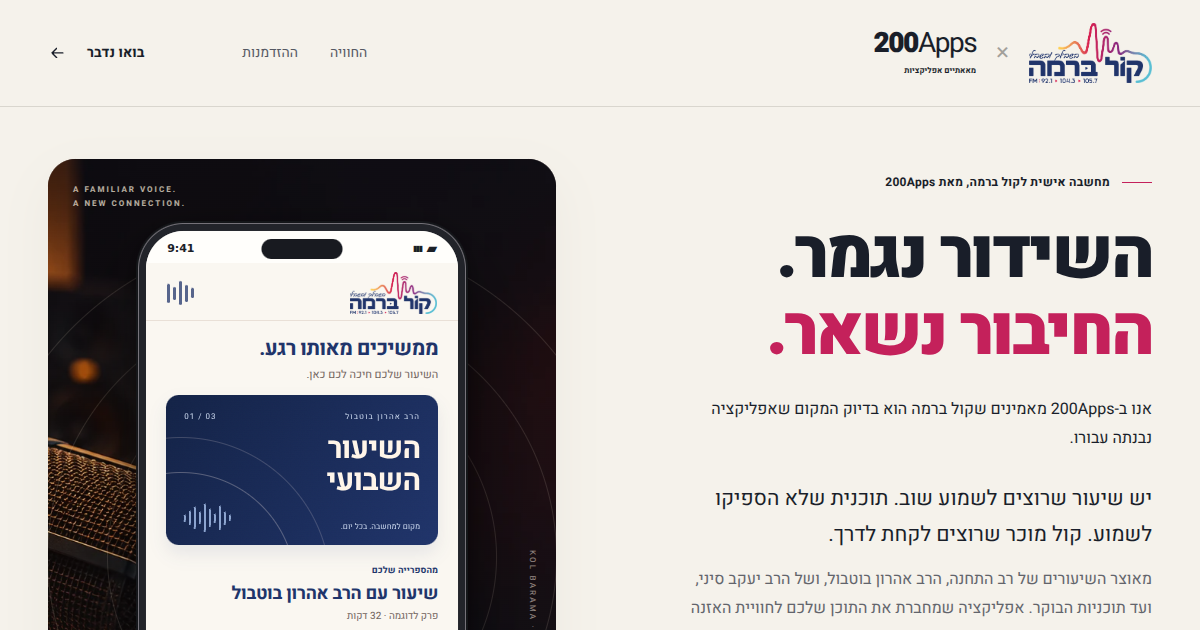
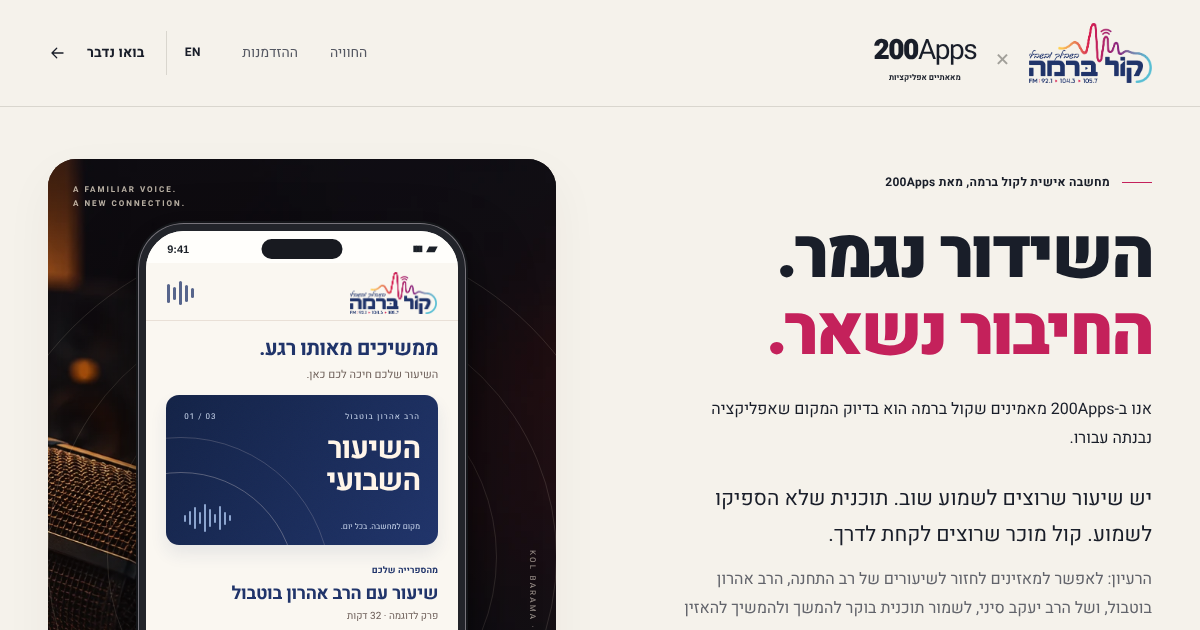
Deploy kol-barama static page

diff --git a/kol-barama/index.html b/kol-barama/index.html
@@ -60,8 +60,8 @@
           <h1 id="hero-title"><span class="he">השידור נגמר.<br><em>החיבור נשאר.</em></span><span class="en" lang="en">The broadcast ends.<br><em>The connection stays.</em></span></h1>
           <p class="hero-first"><span class="he">אנו ב-200Apps מאמינים שקול ברמה הוא בדיוק המקום שאפליקציה נבנתה עבורו.</span><span class="en" lang="en">At 200Apps, we believe Kol Barama is exactly the place an app is built for.</span></p>
           <p class="hero-lead"><span class="he">יש שיעור שרוצים לשמוע שוב. תוכנית שלא הספיקו לשמוע. קול מוכר שרוצים לקחת לדרך.</span><span class="en" lang="en">A lesson worth hearing again. A program you missed. A familiar voice to take along.</span></p>
-          <p class="hero-sub"><span class="he">מאוצר השיעורים של רב התחנה, הרב אהרון בוטבול, ושל הרב יעקב סיני, ועד תוכניות הבוקר. אפליקציה שמחברת את התוכן שלכם לחוויית האזנה אישית, בזמן שמתאים למאזינים.</span><span class="en" lang="en">From the station’s treasury of lessons by its rabbi, Rabbi Aharon Botbol, and Rabbi Yaakov Sinai, to its morning programs. An app that brings your content together in a personal listening experience, on your audience’s time.</span></p>
-          <div class="hero-actions"><a class="button button-primary" href="#contact"><span class="he">נדבר על קול ברמה</span><span class="en" lang="en">Let’s talk Kol Barama</span><svg class="icon arrow" aria-hidden="true"><use href="#i-arrow"/></svg></a><button class="text-button" type="button" id="try-demo"><span class="he">קודם, ננסה את זה</span><span class="en" lang="en">First, try it out</span><span class="small-arrow" aria-hidden="true">↙</span></button></div>
+          <p class="hero-sub"><span class="he">הרעיון: לאפשר למאזינים לחזור לשיעורים של רב התחנה, הרב אהרון בוטבול, ושל הרב יעקב סיני, לשמור תוכנית בוקר להמשך ולהמשיך להאזין מהנקודה שבה עצרו.</span><span class="en" lang="en">The idea: let listeners return to lessons by the station’s rabbi, Rabbi Aharon Botbol, and Rabbi Yaakov Sinai, save a morning program for later, and pick up where they left off.</span></p>
+          <div class="hero-actions"><a class="button button-primary" href="#contact"><span class="he">בואו נדבר על האפליקציה</span><span class="en" lang="en">Let’s talk about the app</span><svg class="icon arrow" aria-hidden="true"><use href="#i-arrow"/></svg></a><button class="text-button" type="button" id="try-demo"><span class="he">נסו את ההדגמה</span><span class="en" lang="en">Try the demo</span><span class="small-arrow" aria-hidden="true">↙</span></button></div>
           <div class="scene-picker" role="group" aria-label="בחרו רגע בהמחשה" data-label-he="בחרו רגע בהמחשה" data-label-en="Choose a demo moment">
             <p class="scene-invitation"><span class="he">שלושה רגעים. תחנה אחת שמלווה את כולם.</span><span class="en" lang="en">Three moments. One station for all of them.</span></p>
             <button class="scene-button is-active" type="button" data-scene="resume" aria-pressed="true"><span class="scene-no">01</span><span class="scene-content"><strong><span class="he">הנסיעה נגמרה. השיעור עוד לא.</span><span class="en" lang="en">The drive ends. The lesson doesn’t.</span></strong><span class="scene-description"><span class="he">ממשיכים בדיוק מהמקום שבו עצרתם</span><span class="en" lang="en">Pick up exactly where you left off</span></span></span><svg class="icon scene-arrow" aria-hidden="true"><use href="#i-chevron"/></svg></button>
@@ -86,18 +86,18 @@
 
         </div>
       </div>
-      <div class="hero-bottom"><span class="he">הקול שלכם. הזמן שלהם. החיבור שביניהם.</span><span class="en" lang="en">Your voice. Their time. The connection in between.</span><a href="#opportunity" class="scroll-cue"><span class="he">יש כאן הזדמנות</span><span class="en" lang="en">Explore the opportunity</span><span aria-hidden="true">↓</span></a></div>
+      <div class="hero-bottom"><a href="#opportunity" class="scroll-cue"><span class="he">יש כאן הזדמנות</span><span class="en" lang="en">Explore the opportunity</span><span aria-hidden="true">↓</span></a></div>
     </section>
 
     <section class="opportunity" id="opportunity" aria-labelledby="opportunity-title">
       <div class="wrap opportunity-inner">
-        <div class="section-heading"><p class="eyebrow light"><span class="eyebrow-line" aria-hidden="true"></span><span class="he">מהרגע באוויר, לקשר שנמשך</span><span class="en" lang="en">From a moment on air to an ongoing connection</span></p><h2 id="opportunity-title"><span class="he">התוכן כבר שלכם.<br><em>תנו לו עוד רגעים להישמע.</em></span><span class="en" lang="en">The content is yours.<br><em>Give it more moments to be heard.</em></span></h2></div>
-        <p class="opportunity-lead"><span class="he">בדרך לעבודה. בהפסקה קטנה. כשהבית נרגע.<br>לחבר את השידור החי, הספרייה והרגלי ההאזנה לחוויה אחת, שקל להיכנס אליה ונעים לחזור אליה.</span><span class="en" lang="en">On the way to work. In a quiet break. When the house settles down. Bring live radio, the library and listening habits into one experience that feels familiar every time.</span></p>
+        <div class="section-heading"><p class="eyebrow light"><span class="eyebrow-line" aria-hidden="true"></span><span class="he">מהרגע באוויר, לקשר שנמשך</span><span class="en" lang="en">From a moment on air to an ongoing connection</span></p><h2 id="opportunity-title"><span class="he">כל שיעור יכול להגיע למאזינים גם מחר.</span><span class="en" lang="en">Every lesson can reach listeners again tomorrow.</span></h2></div>
+        <p class="opportunity-lead"><span class="he">השידור החי, השיעורים והתוכניות במקום אחד.<br>המאזינים בוחרים מה לשמוע ומתי, והתחנה מקבלת עוד דרך להיות חלק מהיום שלהם.</span><span class="en" lang="en">Live radio, lessons and programs in one place. Listeners choose what to hear and when, giving the station another way to be part of their day.</span></p>
         <div class="soundline" aria-hidden="true"></div>
         <div class="benefits">
           <article class="benefit"><div class="benefit-top"><span>01</span><svg class="icon" aria-hidden="true"><use href="#i-book"/></svg></div><h3><span class="he">יותר חיים לתוכן</span><span class="en" lang="en">A longer life for content</span></h3><p><span class="he">ספרייה לפי רב, נושא ותוכנית. שמירה לרגע שמתפנה ואפשרות להוריד תכנים מראש, להאזנה גם בלי רשת.</span><span class="en" lang="en">A library organized by rabbi, topic and program. Save something for later, with the option to download content ahead of time and listen offline.</span></p></article>
           <article class="benefit"><div class="benefit-top"><span>02</span><svg class="icon" aria-hidden="true"><use href="#i-loop"/></svg></div><h3><span class="he">סיבה אישית לחזור</span><span class="en" lang="en">A personal reason to return</span></h3><p><span class="he">המשך האזנה, הסדרות האהובות ותזכורת שבוחרים לקבל. חוויה שנבנית סביב מה שמעניין כל מאזין.</span><span class="en" lang="en">Continue listening, follow favorite series and choose reminders. An experience built around what matters to each listener.</span></p></article>
-          <article class="benefit"><div class="benefit-top"><span>03</span><svg class="icon" aria-hidden="true"><use href="#i-chart"/></svg></div><h3><span class="he">תמונה ברורה יותר</span><span class="en" lang="en">A clearer picture</span></h3><p><span class="he">להבין אילו תכנים בוחרים לשמוע, לאן חוזרים ומה שומרים להמשך. בסיס להחלטות תוכן ולשיחה עם מפרסמים.</span><span class="en" lang="en">Understand what people choose, revisit and save. Useful context for editorial decisions and conversations with advertisers.</span></p></article>
+          <article class="benefit"><div class="benefit-top"><span>03</span><svg class="icon" aria-hidden="true"><use href="#i-chart"/></svg></div><h3><span class="he">להכיר את הרגלי ההאזנה</span><span class="en" lang="en">Understand listening habits</span></h3><p><span class="he">אילו שיעורים מאזינים בוחרים, לאילו תוכניות הם חוזרים ומה הם שומרים להמשך. מידע שיכול לעזור בתכנון התוכן ובשיחה עם מפרסמים.</span><span class="en" lang="en">See which lessons listeners choose, which programs they return to and what they save for later. Insights to inform content planning and conversations with advertisers.</span></p></article>
         </div>
       </div>
     </section>
@@ -107,12 +107,12 @@
       <div class="audience-details">
         <article><span class="detail-index">01</span><div><h3><span class="he">התאמה למכשירים מסוננים</span><span class="en" lang="en">Filtered devices, considered early</span></h3><p><span class="he">נבחן את דרישות ההתאמה כבר באפיון, בתיאום עם ספקי הסינון הרלוונטיים ובהתאם לאישורים הנדרשים.</span><span class="en" lang="en">Explore compatibility during planning, with the relevant filtering providers and subject to the approvals required.</span></p></div></article>
         <article><span class="detail-index">02</span><div><h3><span class="he">אותה ספרייה, גם בדרכים נוספות</span><span class="en" lang="en">One library, more ways to reach it</span></h3><p><span class="he">אפשר לבחון חיבור של הספרייה לאתר ולקו האזנה טלפוני, כדי להגיע גם למי שבוחר להאזין בלי סמארטפון.</span><span class="en" lang="en">Explore connections to the website and a phone listening line, reaching people who choose to listen without a smartphone.</span></p></div></article>
-        <article><span class="detail-index">03</span><div><h3><span class="he">התוכן של קול ברמה, במרכז</span><span class="en" lang="en">Kol Barama’s content at the center</span></h3><p><span class="he">שיעורים לצד תוכניות, ספרייה לצד שידור חי. סביבה שמכבדת את התוכן ואת האופי של התחנה.</span><span class="en" lang="en">Lessons and programs. A library and live radio. An environment that respects the station’s content and character.</span></p></div></article>
+        <article><span class="detail-index">03</span><div><h3><span class="he">למצוא לפי הרב, הנושא או התוכנית</span><span class="en" lang="en">Find content by rabbi, topic or program</span></h3><p><span class="he">לתכנן את הספרייה סביב הדרך שבה המאזינים מחפשים: שם הרב, נושא שמעניין אותם או תוכנית שהם אוהבים.</span><span class="en" lang="en">Organize the library around how listeners search: a rabbi’s name, a topic of interest or a favorite program.</span></p></div></article>
       </div>
     </section>
 
     <section class="start-small wrap" aria-labelledby="start-title">
-      <div class="start-heading"><p class="eyebrow"><span class="eyebrow-line" aria-hidden="true"></span><span class="he">מתחילים ממשהו שאפשר להרגיש</span><span class="en" lang="en">Start with something people can feel</span></p><h2 id="start-title"><span class="he">רעיון רחב.<br>צעד ראשון ממוקד.</span><span class="en" lang="en">A bigger idea.<br>A focused first step.</span></h2><p><span class="he">בשיחה נבין מה כבר עובד אצלכם, ואיפה חוויה חדשה יכולה לתת את הערך הגדול ביותר.</span><span class="en" lang="en">Let’s understand what already works, and where a new experience could make the most difference.</span></p></div>
+      <div class="start-heading"><h2 id="start-title"><span class="he">רעיון רחב.<br>צעד ראשון ממוקד.</span><span class="en" lang="en">A bigger idea.<br>A focused first step.</span></h2><p><span class="he">בשיחה נבין מה כבר עובד אצלכם, ואיפה חוויה חדשה יכולה לתת את הערך הגדול ביותר.</span><span class="en" lang="en">Let’s understand what already works, and where a new experience could make the most difference.</span></p></div>
       <ol class="start-steps"><li><span class="step-number">01</span><div><h3><span class="he">מכירים</span><span class="en" lang="en">Understand</span></h3><p><span class="he">המאזינים, התוכן והתשתיות הקיימות.</span><span class="en" lang="en">Your audience, content and existing systems.</span></p></div></li><li><span class="step-number">02</span><div><h3><span class="he">בוחרים</span><span class="en" lang="en">Focus</span></h3><p><span class="he">חוויית האזנה אחת שכדאי להתחיל ממנה.</span><span class="en" lang="en">One listening experience worth starting with.</span></p></div></li><li><span class="step-number">03</span><div><h3><span class="he">מגדירים</span><span class="en" lang="en">Define</span></h3><p><span class="he">מה בונים, למי ואיך נבדוק שזה עובד.</span><span class="en" lang="en">What to build, who it serves and how to learn.</span></p></div></li></ol>
     </section>
 
@@ -122,7 +122,7 @@
     </section>
 
     <section class="contact" id="contact" aria-labelledby="contact-title">
-      <div class="wrap contact-inner"><div class="contact-copy"><p class="eyebrow light"><span class="eyebrow-line" aria-hidden="true"></span><span class="he">מכאן, מתחילים בשיחה.</span><span class="en" lang="en">It starts with a conversation.</span></p><h2 id="contact-title"><span class="he">יש לכם קול מיוחד.<br><em>בואו נחשוב על הדרך הבאה שלו.</em></span><span class="en" lang="en">You have a voice like no other.<br><em>Let’s imagine its next chapter.</em></span></h2><p><span class="he">נכיר, נקשיב, ונבחן יחד מה נכון לקול ברמה.</span><span class="en" lang="en">Let’s meet, listen and explore what is right for Kol Barama.</span></p><a class="button button-light whatsapp-link" href="https://wa.me/972553192012?text=%D7%94%D7%99%D7%99%20%D7%97%D7%9E%D7%99%2C%20%D7%A8%D7%90%D7%99%D7%AA%D7%99%20%D7%90%D7%AA%20%D7%94%D7%94%D7%9E%D7%97%D7%A9%D7%94%20%D7%9C%D7%A7%D7%95%D7%9C%20%D7%91%D7%A8%D7%9E%D7%94%20%D7%95%D7%90%D7%A9%D7%9E%D7%97%20%D7%9C%D7%93%D7%91%D7%A8." target="_blank" rel="noopener"><span class="he">חמי, בוא נדבר על זה</span><span class="en" lang="en">Hemi, let’s talk</span><svg class="icon arrow" aria-hidden="true"><use href="#i-arrow"/></svg></a></div>
+      <div class="wrap contact-inner"><div class="contact-copy"><p class="eyebrow light"><span class="eyebrow-line" aria-hidden="true"></span><span class="he">מכאן, מתחילים בשיחה.</span><span class="en" lang="en">It starts with a conversation.</span></p><h2 id="contact-title"><span class="he">בואו נבחר מאיפה מתחילים.</span><span class="en" lang="en">Let’s choose where to start.</span></h2><p><span class="he">בשיחה קצרה נבחן איזו חוויית האזנה כדאי לפתח קודם, ואיך היא יכולה להשתלב במה שכבר קיים אצלכם.</span><span class="en" lang="en">In a short conversation, we’ll explore which listening experience to build first and how it could fit what you already have.</span></p><a class="button button-light whatsapp-link" href="https://wa.me/972553192012?text=%D7%94%D7%99%D7%99%20%D7%97%D7%9E%D7%99%2C%20%D7%A8%D7%90%D7%99%D7%AA%D7%99%20%D7%90%D7%AA%20%D7%94%D7%94%D7%9E%D7%97%D7%A9%D7%94%20%D7%9C%D7%A7%D7%95%D7%9C%20%D7%91%D7%A8%D7%9E%D7%94%20%D7%95%D7%90%D7%A9%D7%9E%D7%97%20%D7%9C%D7%93%D7%91%D7%A8." target="_blank" rel="noopener"><span class="he">בואו נדבר</span><span class="en" lang="en">Let’s talk</span><svg class="icon arrow" aria-hidden="true"><use href="#i-arrow"/></svg></a></div>
       <aside class="contact-person"><span class="person-monogram" aria-hidden="true">חב</span><h3><span class="he">חמי בן לביא</span><span class="en" lang="en">Hemi Ben-Lavi</span></h3><p dir="ltr">Head of Product Operations<br>200Apps</p><a href="tel:+972553192012" dir="ltr">055-319-2012</a><a href="mailto:hemi@200apps.co" dir="ltr">hemi@200apps.co</a></aside></div>
     </section>
   </main>

diff --git a/kol-barama/demo.js b/kol-barama/demo.js
@@ -3,10 +3,10 @@
   const state = { scene: 'resume', lang: 'he', time: 872, expanded: false, search: '', filter: 'all', saved: new Set(), followed: new Set(), notice: null };
   const text = {
     he: {
-      brand: 'קול ברמה', area: 'הקול שלכם. בזמן שלכם.', greeting: 'טוב שחזרתם.', resumeTitle: 'ממשיכים מאותו רגע.', resumeSub: 'השיעור שלכם חיכה לכם כאן.', collection: 'מהספרייה שלכם', cover: 'השיעור\nהשבועי', series: 'הרב אהרון בוטבול', episode: 'פרק לדוגמה · 32 דקות', position: 'מיקום בהאזנה', continue: 'להמשיך מאותה נקודה', back15: '15 שניות אחורה', next15: '15 שניות קדימה', closeControls: 'סגירת פקדי ההמחשה', controlsHint: 'הזיזו את הסמן. הנקודה נשמרת בהדגמה.', demo: 'המחשה בלבד · ללא שמע', home: 'בשבילכם', library: 'הספרייה', follow: 'במעקב', libraryTitle: 'מה תרצו לשמוע?', librarySub: 'הקולות שאוהבים, במקום אחד.', search: 'חיפוש שיעור או סדרה', searchPlaceholder: 'מה מחפשים היום?', all: 'הכול', law: 'הלכה', thought: 'מחשבה', voices: 'תוכניות', save: 'שמירה', saved: 'נשמר', saveName: 'שמירת', unsaveName: 'ביטול שמירת', noResults: 'לא מצאנו התאמה. נסו לחפש משהו אחר.', followTitle: 'הקולות שלא מפספסים.', followSub: 'בחרו סדרה וראו איך עדכון יכול להיראות.', subscribe: 'מעקב', subscribed: 'במעקב', subscribeName: 'מעקב אחר', unsubscribeName: 'ביטול מעקב אחר', notification: 'כך ייראה עדכון לדוגמה', newEpisode: 'פרק חדש מחכה לכם', notificationEmpty: 'כל סדרה, בקצב שלכם.', notificationEmptySub: 'לחצו על ״מעקב״ כדי להמחיש עדכון.', notificationFoot: 'הדגמה בלבד · לא נשלחת התראה', savedStatus: 'נוסף לספרייה שלכם בהדגמה', removedStatus: 'הוסר מהשמורים בהדגמה', followStatus: 'הסדרה נוספה למעקב בהדגמה', unfollowStatus: 'המעקב הוסר בהדגמה', positionStatus: 'נקודת ההאזנה עודכנה', minutes: 'דקות', demoSeries: 'סדרה לדוגמה', viewLabel: 'תצוגת אפליקציה להמחשה', coverChapter: 'מקום למחשבה. בכל יום.', savedCount: 'שמורים', results: 'תוצאות', lesson1: 'שיעור עם הרב אהרון בוטבול', lesson2: 'שיעור עם הרב יעקב סיני', lesson3: 'תוכנית בוקר', desc1: 'רב התחנה · שיעור לדוגמה', desc2: 'הרב יעקב סיני · שיעור לדוגמה', desc3: 'שיחות וענייני היום · תוכן לדוגמה', navLabel: 'ניווט בהמחשת האפליקציה'
+      brand: 'קול ברמה', area: 'הקול שלכם. בזמן שלכם.', greeting: 'טוב שחזרתם.', resumeTitle: 'ממשיכים מאותו רגע.', resumeSub: 'השיעור שלכם חיכה לכם כאן.', collection: 'מהספרייה שלכם', cover: 'השיעור\nהשבועי', series: 'הרב אהרון בוטבול', episode: 'פרק לדוגמה · 32 דקות', position: 'מיקום בהאזנה', continue: 'להמשיך מאותה נקודה', back15: '15 שניות אחורה', next15: '15 שניות קדימה', closeControls: 'סגירת פקדי ההמחשה', controlsHint: 'הזיזו את הסמן. הנקודה נשמרת בהדגמה.', demo: 'המחשה בלבד · ללא שמע', home: 'בשבילכם', library: 'הספרייה', follow: 'במעקב', libraryTitle: 'מה תרצו לשמוע?', librarySub: 'הקולות שאוהבים, במקום אחד.', search: 'חיפוש שיעור או סדרה', searchPlaceholder: 'מה מחפשים היום?', all: 'הכול', law: 'הלכה', thought: 'מחשבה', voices: 'תוכניות', save: 'שמירה', saved: 'נשמר', saveName: 'שמירת', unsaveName: 'ביטול שמירת', noResults: 'לא מצאנו התאמה. נסו לחפש משהו אחר.', followTitle: 'הסדרות שאתם אוהבים', followSub: 'בחרו על אילו סדרות לקבל עדכונים.', subscribe: 'מעקב', subscribed: 'במעקב', subscribeName: 'מעקב אחר', unsubscribeName: 'ביטול מעקב אחר', notification: 'כך ייראה עדכון לדוגמה', newEpisode: 'פרק חדש מחכה לכם', notificationEmpty: 'כל סדרה, בקצב שלכם.', notificationEmptySub: 'לחצו על ״מעקב״ כדי להמחיש עדכון.', notificationFoot: 'הדגמה בלבד · לא נשלחת התראה', savedStatus: 'נוסף לספרייה שלכם בהדגמה', removedStatus: 'הוסר מהשמורים בהדגמה', followStatus: 'הסדרה נוספה למעקב בהדגמה', unfollowStatus: 'המעקב הוסר בהדגמה', positionStatus: 'נקודת ההאזנה עודכנה', minutes: 'דקות', demoSeries: 'סדרה לדוגמה', viewLabel: 'תצוגת אפליקציה להמחשה', coverChapter: 'מקום למחשבה. בכל יום.', savedCount: 'שמורים', results: 'תוצאות', lesson1: 'שיעור עם הרב אהרון בוטבול', lesson2: 'שיעור עם הרב יעקב סיני', lesson3: 'תוכנית בוקר', desc1: 'רב התחנה · שיעור לדוגמה', desc2: 'הרב יעקב סיני · שיעור לדוגמה', desc3: 'שיחות וענייני היום · תוכן לדוגמה', navLabel: 'ניווט בהמחשת האפליקציה'
     },
     en: {
-      brand: 'Kol Barama', area: 'Your voices. Your time.', greeting: 'Welcome back.', resumeTitle: 'Right where you left off.', resumeSub: 'Your lesson has been waiting here.', collection: 'FROM YOUR LIBRARY', cover: 'The weekly\nlesson', series: 'RABBI AHARON BOTBOL', episode: 'Sample episode · 32 min', position: 'Listening position', continue: 'Continue from my place', back15: 'Back 15 seconds', next15: 'Forward 15 seconds', closeControls: 'Close demo controls', controlsHint: 'Move the slider. Your place stays saved in this demo.', demo: 'Interactive demo · No audio', home: 'For you', library: 'Library', follow: 'Following', libraryTitle: 'What speaks to you?', librarySub: 'The voices you love, all in one place.', search: 'Search lessons or series', searchPlaceholder: 'Find your next listen', all: 'All', law: 'Halacha', thought: 'Reflection', voices: 'Shows', save: 'Save', saved: 'Saved', saveName: 'Save', unsaveName: 'Unsave', noResults: 'No matches yet. Try another search.', followTitle: 'Keep your favorites close.', followSub: 'Follow a series to preview an update.', subscribe: 'Follow', subscribed: 'Following', subscribeName: 'Follow', unsubscribeName: 'Unfollow', notification: 'A SAMPLE UPDATE', newEpisode: 'A new episode is waiting', notificationEmpty: 'Every series. Your own pace.', notificationEmptySub: 'Tap Follow to preview an update.', notificationFoot: 'Demo only · No notification is sent', savedStatus: 'Added to your demo library', removedStatus: 'Removed from your demo library', followStatus: 'Following this series in the demo', unfollowStatus: 'Unfollowed this series in the demo', positionStatus: 'Listening position updated', minutes: 'min', demoSeries: 'Sample series', viewLabel: 'Interactive app concept', coverChapter: 'A little room for reflection.', savedCount: 'saved', results: 'results', lesson1: 'A lesson with Rabbi Aharon Botbol', lesson2: 'A lesson with Rabbi Yaakov Sinai', lesson3: 'A morning program', desc1: 'The station’s rabbi · Sample lesson', desc2: 'Rabbi Yaakov Sinai · Sample lesson', desc3: 'Conversation and current affairs · Sample', navLabel: 'App demo navigation'
+      brand: 'Kol Barama', area: 'Your voices. Your time.', greeting: 'Welcome back.', resumeTitle: 'Right where you left off.', resumeSub: 'Your lesson has been waiting here.', collection: 'FROM YOUR LIBRARY', cover: 'The weekly\nlesson', series: 'RABBI AHARON BOTBOL', episode: 'Sample episode · 32 min', position: 'Listening position', continue: 'Continue from my place', back15: 'Back 15 seconds', next15: 'Forward 15 seconds', closeControls: 'Close demo controls', controlsHint: 'Move the slider. Your place stays saved in this demo.', demo: 'Interactive demo · No audio', home: 'For you', library: 'Library', follow: 'Following', libraryTitle: 'What speaks to you?', librarySub: 'The voices you love, all in one place.', search: 'Search lessons or series', searchPlaceholder: 'Find your next listen', all: 'All', law: 'Halacha', thought: 'Reflection', voices: 'Shows', save: 'Save', saved: 'Saved', saveName: 'Save', unsaveName: 'Unsave', noResults: 'No matches yet. Try another search.', followTitle: 'The series you love', followSub: 'Choose which series to get updates about.', subscribe: 'Follow', subscribed: 'Following', subscribeName: 'Follow', unsubscribeName: 'Unfollow', notification: 'A SAMPLE UPDATE', newEpisode: 'A new episode is waiting', notificationEmpty: 'Every series. Your own pace.', notificationEmptySub: 'Tap Follow to preview an update.', notificationFoot: 'Demo only · No notification is sent', savedStatus: 'Added to your demo library', removedStatus: 'Removed from your demo library', followStatus: 'Following this series in the demo', unfollowStatus: 'Unfollowed this series in the demo', positionStatus: 'Listening position updated', minutes: 'min', demoSeries: 'Sample series', viewLabel: 'Interactive app concept', coverChapter: 'A little room for reflection.', savedCount: 'saved', results: 'results', lesson1: 'A lesson with Rabbi Aharon Botbol', lesson2: 'A lesson with Rabbi Yaakov Sinai', lesson3: 'A morning program', desc1: 'The station’s rabbi · Sample lesson', desc2: 'Rabbi Yaakov Sinai · Sample lesson', desc3: 'Conversation and current affairs · Sample', navLabel: 'App demo navigation'
     }
   };
   const lessons = [{ id: 'law', title: 'lesson1', desc: 'desc1', length: 32, color: 'rose', number: '01' }, { id: 'thought', title: 'lesson2', desc: 'desc2', length: 24, color: 'sand', number: '02' }, { id: 'voices', title: 'lesson3', desc: 'desc3', length: 46, color: 'olive', number: '03' }];

diff --git a/kol-barama/styles.css b/kol-barama/styles.css
@@ -52,3 +52,7 @@ html[lang=en] .hero h1{font-size:clamp(48px,4.65vw,67px);letter-spacing:-2.7px;l
 @media(max-width:359px){.hero-first{font-size:13px}.brand200 small{font-size:5.6px}}
 @media(prefers-reduced-motion:reduce){.sticky-whatsapp:hover{transform:none}}
 @media print{.sticky-whatsapp{display:none}}
+
+/* Header lockup: center the Hebrew line under 200Apps and sit both on the Kol Barama wordmark line. */
+.header .brand200,.header .brand200 small{text-align:center}.header .brand200,.header .brand-cross{transform:translateY(7px)}
+@media(max-width:679px){.header .brand200,.header .brand-cross{transform:translateY(5px)}}
